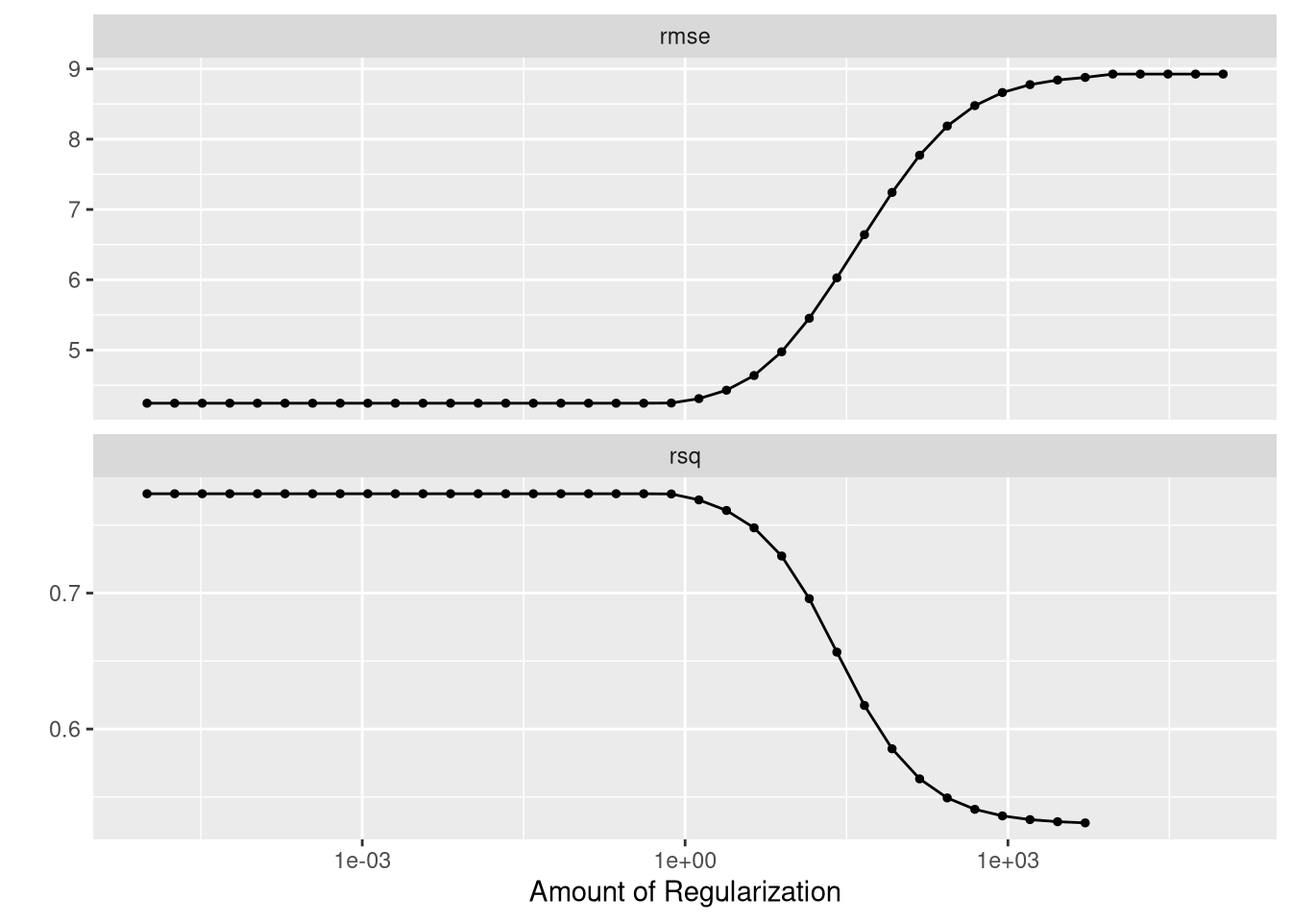
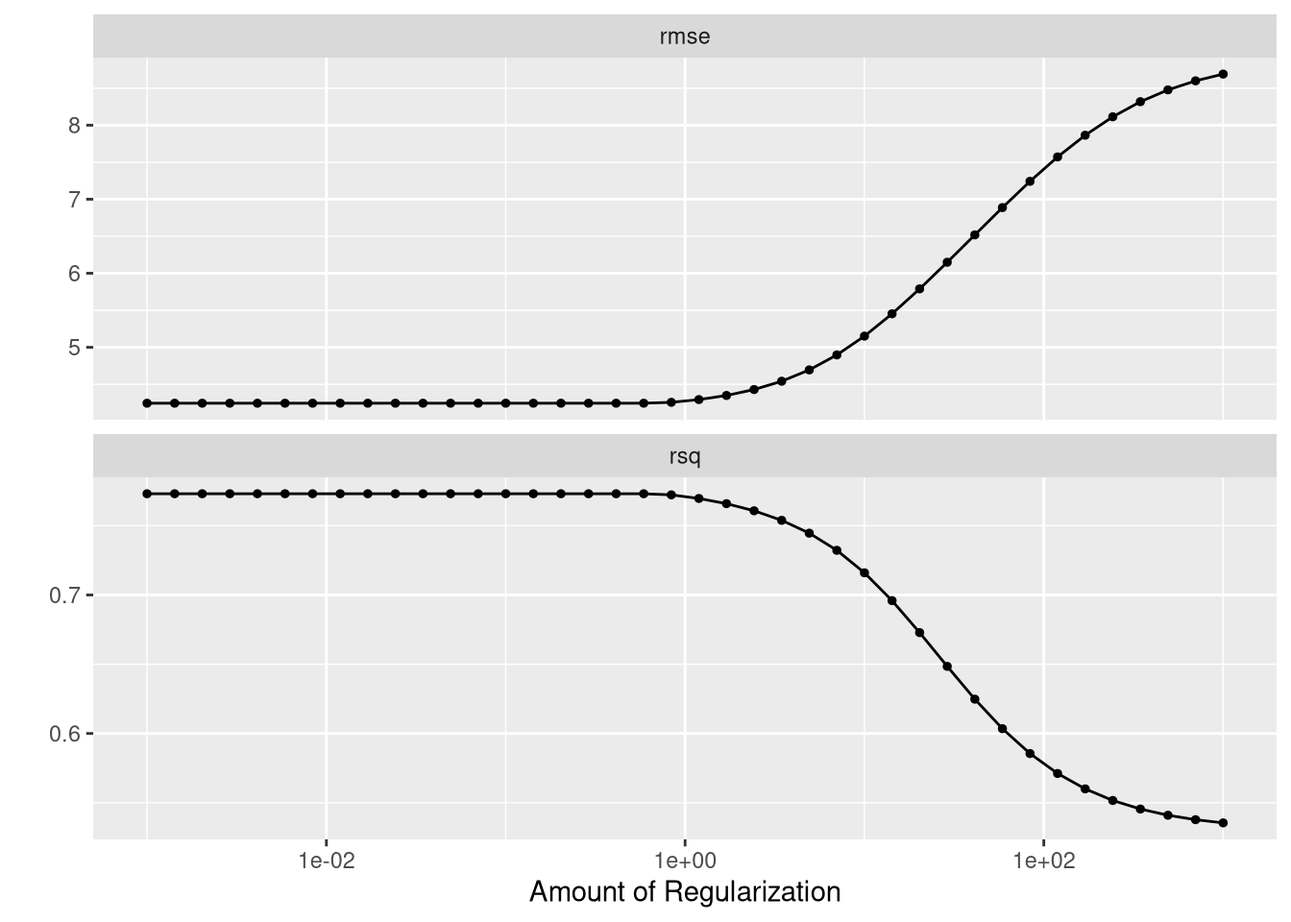
motweakers

diff --git a/QuartoStuff/tmNotes.html b/QuartoStuff/tmNotes.html
@@ -93,7 +93,7 @@ pre > code.sourceCode > span > a:first-child::before { text-decoration: underlin
     <div>
     <div class="quarto-title-meta-heading">Published</div>
     <div class="quarto-title-meta-contents">
-      <p class="date">Last modified on September 16, 2025 11:57:58 Eastern Daylight Time</p>
+      <p class="date">Last modified on September 17, 2025 10:16:53 Eastern Daylight Time</p>
     </div>
   </div>
   
@@ -306,20 +306,24 @@ Computational engine: lm </code></pre>
 <div class="cell" data-layout-align="center">
 <div class="sourceCode cell-code" id="cb20"><pre class="sourceCode r code-with-copy"><code class="sourceCode r"><span id="cb20-1"><a href="#cb20-1" aria-hidden="true" tabindex="-1"></a>boston_fit <span class="ot">&lt;-</span> <span class="fu">fit</span>(boston_wkfl, <span class="at">data =</span> boston_training)</span>
 <span id="cb20-2"><a href="#cb20-2" aria-hidden="true" tabindex="-1"></a><span class="fu">augment</span>(boston_fit, <span class="at">new_data =</span> boston_testing) <span class="sc">|&gt;</span> </span>
-<span id="cb20-3"><a href="#cb20-3" aria-hidden="true" tabindex="-1"></a>  <span class="fu">rmse</span>(<span class="at">truth =</span> medv, <span class="at">estimate =</span> .pred)</span></code><button title="Copy to Clipboard" class="code-copy-button"><i class="bi"></i></button></pre></div>
+<span id="cb20-3"><a href="#cb20-3" aria-hidden="true" tabindex="-1"></a>  <span class="fu">metrics</span>(<span class="at">truth =</span> medv, <span class="at">estimate =</span> .pred)</span></code><button title="Copy to Clipboard" class="code-copy-button"><i class="bi"></i></button></pre></div>
 <div class="cell-output cell-output-stdout">
-<pre><code># A tibble: 1 × 3
+<pre><code># A tibble: 3 × 3
   .metric .estimator .estimate
   &lt;chr&gt;   &lt;chr&gt;          &lt;dbl&gt;
-1 rmse    standard        4.58</code></pre>
+1 rmse    standard       4.58 
+2 rsq     standard       0.680
+3 mae     standard       3.40 </code></pre>
 </div>
 <div class="sourceCode cell-code" id="cb22"><pre class="sourceCode r code-with-copy"><code class="sourceCode r"><span id="cb22-1"><a href="#cb22-1" aria-hidden="true" tabindex="-1"></a><span class="fu">augment</span>(boston_fit, <span class="at">new_data =</span> boston_training) <span class="sc">|&gt;</span> </span>
-<span id="cb22-2"><a href="#cb22-2" aria-hidden="true" tabindex="-1"></a>  <span class="fu">rmse</span>(<span class="at">truth =</span> medv, <span class="at">estimate =</span> .pred)</span></code><button title="Copy to Clipboard" class="code-copy-button"><i class="bi"></i></button></pre></div>
+<span id="cb22-2"><a href="#cb22-2" aria-hidden="true" tabindex="-1"></a>  <span class="fu">metrics</span>(<span class="at">truth =</span> medv, <span class="at">estimate =</span> .pred)</span></code><button title="Copy to Clipboard" class="code-copy-button"><i class="bi"></i></button></pre></div>
 <div class="cell-output cell-output-stdout">
-<pre><code># A tibble: 1 × 3
+<pre><code># A tibble: 3 × 3
   .metric .estimator .estimate
   &lt;chr&gt;   &lt;chr&gt;          &lt;dbl&gt;
-1 rmse    standard        4.29</code></pre>
+1 rmse    standard       4.29 
+2 rsq     standard       0.793
+3 mae     standard       3.14 </code></pre>
 </div>
 </div>
 <p>Consider what happens if the seed is changed with the <code>initial_split()</code>.</p>
@@ -544,7 +548,7 @@ Computational engine: lm </code></pre>
 # ℹ 394 more rows</code></pre>
 </div>
 </div>
-<p>So how to we find the “best” <code>penalty</code>? We can use tuning to find the best hyperparameter. For now, we will only consider a grid search with evenly spaced parameter values to optimize our model.</p>
+<p>So how to we find the “best” <code>penalty</code> (<code>penalty</code> in tidymodels <span class="math inline">\(\equiv \lambda\)</span>, note: <span class="math inline">\(\lambda = \text{penalty} = 0 \text{and} \alpha = \text{mixture} = 0\)</span> is normal regression)? We can use tuning to find the best hyperparameter. For now, we will only consider a grid search with evenly spaced parameter values to optimize our model.</p>
 <div class="cell" data-layout-align="center">
 <div class="sourceCode cell-code" id="cb49"><pre class="sourceCode r code-with-copy"><code class="sourceCode r"><span id="cb49-1"><a href="#cb49-1" aria-hidden="true" tabindex="-1"></a>ridge_recipe <span class="ot">&lt;-</span></span>
 <span id="cb49-2"><a href="#cb49-2" aria-hidden="true" tabindex="-1"></a>  <span class="fu">recipe</span>(<span class="at">formula =</span> medv <span class="sc">~</span> ., <span class="at">data =</span> boston_training) <span class="sc">|&gt;</span> </span>
@@ -560,24 +564,24 @@ Computational engine: lm </code></pre>
 <span id="cb49-12"><a href="#cb49-12" aria-hidden="true" tabindex="-1"></a>  <span class="fu">add_recipe</span>(ridge_recipe) <span class="sc">|&gt;</span> </span>
 <span id="cb49-13"><a href="#cb49-13" aria-hidden="true" tabindex="-1"></a>  <span class="fu">add_model</span>(ridge_spec)</span></code><button title="Copy to Clipboard" class="code-copy-button"><i class="bi"></i></button></pre></div>
 </div>
-<p>We need values of the <code>penalty</code>. Looking at the graph from <code>autoplot()</code>, we select values from 1 to 1000 using <code>grid_regular()</code> which will create a grid of evenly spaced values.</p>
+<p>We need values of the <code>penalty</code>. Looking at the graph from <code>autoplot()</code>, we select values from 0.001 to 1000 using <code>grid_regular()</code> which will create a grid of evenly spaced values.</p>
 <div class="cell" data-layout-align="center">
-<div class="sourceCode cell-code" id="cb50"><pre class="sourceCode r code-with-copy"><code class="sourceCode r"><span id="cb50-1"><a href="#cb50-1" aria-hidden="true" tabindex="-1"></a>penalty_grid <span class="ot">&lt;-</span> <span class="fu">grid_regular</span>(<span class="fu">penalty</span>(<span class="at">range =</span> <span class="fu">c</span>(<span class="sc">-</span><span class="dv">5</span>, <span class="dv">5</span>)), <span class="at">levels =</span> <span class="dv">40</span>)</span>
+<div class="sourceCode cell-code" id="cb50"><pre class="sourceCode r code-with-copy"><code class="sourceCode r"><span id="cb50-1"><a href="#cb50-1" aria-hidden="true" tabindex="-1"></a>penalty_grid <span class="ot">&lt;-</span> <span class="fu">grid_regular</span>(<span class="fu">penalty</span>(<span class="at">range =</span> <span class="fu">c</span>(<span class="sc">-</span><span class="dv">3</span>, <span class="dv">3</span>)), <span class="at">levels =</span> <span class="dv">40</span>)</span>
 <span id="cb50-2"><a href="#cb50-2" aria-hidden="true" tabindex="-1"></a>penalty_grid</span></code><button title="Copy to Clipboard" class="code-copy-button"><i class="bi"></i></button></pre></div>
 <div class="cell-output cell-output-stdout">
 <pre><code># A tibble: 40 × 1
-     penalty
-       &lt;dbl&gt;
- 1 0.00001  
- 2 0.0000180
- 3 0.0000326
- 4 0.0000588
- 5 0.000106 
- 6 0.000191 
- 7 0.000346 
- 8 0.000624 
- 9 0.00113  
-10 0.00203  
+   penalty
+     &lt;dbl&gt;
+ 1 0.001  
+ 2 0.00143
+ 3 0.00203
+ 4 0.00289
+ 5 0.00412
+ 6 0.00588
+ 7 0.00838
+ 8 0.0119 
+ 9 0.0170 
+10 0.0242 
 # ℹ 30 more rows</code></pre>
 </div>
 </div>
@@ -594,21 +598,20 @@ Computational engine: lm </code></pre>
 # A tibble: 30 × 5
    splits           id      id2    .metrics          .notes          
    &lt;list&gt;           &lt;chr&gt;   &lt;chr&gt;  &lt;list&gt;            &lt;list&gt;          
- 1 &lt;split [363/41]&gt; Repeat1 Fold01 &lt;tibble [80 × 5]&gt; &lt;tibble [8 × 4]&gt;
- 2 &lt;split [363/41]&gt; Repeat1 Fold02 &lt;tibble [80 × 5]&gt; &lt;tibble [8 × 4]&gt;
- 3 &lt;split [363/41]&gt; Repeat1 Fold03 &lt;tibble [80 × 5]&gt; &lt;tibble [8 × 4]&gt;
- 4 &lt;split [363/41]&gt; Repeat1 Fold04 &lt;tibble [80 × 5]&gt; &lt;tibble [8 × 4]&gt;
- 5 &lt;split [364/40]&gt; Repeat1 Fold05 &lt;tibble [80 × 5]&gt; &lt;tibble [8 × 4]&gt;
- 6 &lt;split [364/40]&gt; Repeat1 Fold06 &lt;tibble [80 × 5]&gt; &lt;tibble [8 × 4]&gt;
- 7 &lt;split [364/40]&gt; Repeat1 Fold07 &lt;tibble [80 × 5]&gt; &lt;tibble [8 × 4]&gt;
- 8 &lt;split [364/40]&gt; Repeat1 Fold08 &lt;tibble [80 × 5]&gt; &lt;tibble [8 × 4]&gt;
- 9 &lt;split [364/40]&gt; Repeat1 Fold09 &lt;tibble [80 × 5]&gt; &lt;tibble [8 × 4]&gt;
-10 &lt;split [364/40]&gt; Repeat1 Fold10 &lt;tibble [80 × 5]&gt; &lt;tibble [8 × 4]&gt;
+ 1 &lt;split [363/41]&gt; Repeat1 Fold01 &lt;tibble [80 × 5]&gt; &lt;tibble [3 × 4]&gt;
+ 2 &lt;split [363/41]&gt; Repeat1 Fold02 &lt;tibble [80 × 5]&gt; &lt;tibble [3 × 4]&gt;
+ 3 &lt;split [363/41]&gt; Repeat1 Fold03 &lt;tibble [80 × 5]&gt; &lt;tibble [3 × 4]&gt;
+ 4 &lt;split [363/41]&gt; Repeat1 Fold04 &lt;tibble [80 × 5]&gt; &lt;tibble [3 × 4]&gt;
+ 5 &lt;split [364/40]&gt; Repeat1 Fold05 &lt;tibble [80 × 5]&gt; &lt;tibble [3 × 4]&gt;
+ 6 &lt;split [364/40]&gt; Repeat1 Fold06 &lt;tibble [80 × 5]&gt; &lt;tibble [3 × 4]&gt;
+ 7 &lt;split [364/40]&gt; Repeat1 Fold07 &lt;tibble [80 × 5]&gt; &lt;tibble [3 × 4]&gt;
+ 8 &lt;split [364/40]&gt; Repeat1 Fold08 &lt;tibble [80 × 5]&gt; &lt;tibble [3 × 4]&gt;
+ 9 &lt;split [364/40]&gt; Repeat1 Fold09 &lt;tibble [80 × 5]&gt; &lt;tibble [3 × 4]&gt;
+10 &lt;split [364/40]&gt; Repeat1 Fold10 &lt;tibble [80 × 5]&gt; &lt;tibble [3 × 4]&gt;
 # ℹ 20 more rows
 
 There were issues with some computations:
 
-  - Warning(s) x150: A correlation computation is required, but `estimate` is constant...
   - Warning(s) x30: Fewer than `num_unique` values in selected variable.
   - Warning(s) x30: No Box-Cox transformation could be estimated for: `zn` and `chas`.
   - Warning(s) x30: Non-positive values in selected variable.
@@ -630,18 +633,18 @@ Run `show_notes(.Last.tune.result)` for more information.</code></pre>
 <div class="sourceCode cell-code" id="cb55"><pre class="sourceCode r code-with-copy"><code class="sourceCode r"><span id="cb55-1"><a href="#cb55-1" aria-hidden="true" tabindex="-1"></a><span class="fu">collect_metrics</span>(tune_result)</span></code><button title="Copy to Clipboard" class="code-copy-button"><i class="bi"></i></button></pre></div>
 <div class="cell-output cell-output-stdout">
 <pre><code># A tibble: 80 × 7
-     penalty .metric .estimator  mean     n std_err .config         
-       &lt;dbl&gt; &lt;chr&gt;   &lt;chr&gt;      &lt;dbl&gt; &lt;int&gt;   &lt;dbl&gt; &lt;chr&gt;           
- 1 0.00001   rmse    standard   4.24     30  0.155  pre0_mod01_post0
- 2 0.00001   rsq     standard   0.773    30  0.0143 pre0_mod01_post0
- 3 0.0000180 rmse    standard   4.24     30  0.155  pre0_mod02_post0
- 4 0.0000180 rsq     standard   0.773    30  0.0143 pre0_mod02_post0
- 5 0.0000326 rmse    standard   4.24     30  0.155  pre0_mod03_post0
- 6 0.0000326 rsq     standard   0.773    30  0.0143 pre0_mod03_post0
- 7 0.0000588 rmse    standard   4.24     30  0.155  pre0_mod04_post0
- 8 0.0000588 rsq     standard   0.773    30  0.0143 pre0_mod04_post0
- 9 0.000106  rmse    standard   4.24     30  0.155  pre0_mod05_post0
-10 0.000106  rsq     standard   0.773    30  0.0143 pre0_mod05_post0
+   penalty .metric .estimator  mean     n std_err .config         
+     &lt;dbl&gt; &lt;chr&gt;   &lt;chr&gt;      &lt;dbl&gt; &lt;int&gt;   &lt;dbl&gt; &lt;chr&gt;           
+ 1 0.001   rmse    standard   4.24     30  0.155  pre0_mod01_post0
+ 2 0.001   rsq     standard   0.773    30  0.0143 pre0_mod01_post0
+ 3 0.00143 rmse    standard   4.24     30  0.155  pre0_mod02_post0
+ 4 0.00143 rsq     standard   0.773    30  0.0143 pre0_mod02_post0
+ 5 0.00203 rmse    standard   4.24     30  0.155  pre0_mod03_post0
+ 6 0.00203 rsq     standard   0.773    30  0.0143 pre0_mod03_post0
+ 7 0.00289 rmse    standard   4.24     30  0.155  pre0_mod04_post0
+ 8 0.00289 rsq     standard   0.773    30  0.0143 pre0_mod04_post0
+ 9 0.00412 rmse    standard   4.24     30  0.155  pre0_mod05_post0
+10 0.00412 rsq     standard   0.773    30  0.0143 pre0_mod05_post0
 # ℹ 70 more rows</code></pre>
 </div>
 </div>
@@ -652,7 +655,7 @@ Run `show_notes(.Last.tune.result)` for more information.</code></pre>
 <pre><code># A tibble: 1 × 2
   penalty .config         
     &lt;dbl&gt; &lt;chr&gt;           
-1 0.00001 pre0_mod01_post0</code></pre>
+1   0.001 pre0_mod01_post0</code></pre>
 </div>
 </div>
 <div class="cell" data-layout-align="center">
@@ -672,7 +675,7 @@ Run `show_notes(.Last.tune.result)` for more information.</code></pre>
 </section>
 <section id="the-lasso" class="level2">
 <h2 class="anchored" data-anchor-id="the-lasso">The LASSO</h2>
-<p>To specify the LASSO use <code>mixture = 1</code>.</p>
+<p>To specify the LASSO use <span class="math inline">\(\alpha = \text{mixture} = 1\)</span>. Recall that <span class="math inline">\(\text{penalty} = \lambda\)</span>.</p>
 <div class="cell" data-layout-align="center">
 <div class="sourceCode cell-code" id="cb61"><pre class="sourceCode r code-with-copy"><code class="sourceCode r"><span id="cb61-1"><a href="#cb61-1" aria-hidden="true" tabindex="-1"></a>lasso_recipe <span class="ot">&lt;-</span></span>
 <span id="cb61-2"><a href="#cb61-2" aria-hidden="true" tabindex="-1"></a>  <span class="fu">recipe</span>(<span class="at">formula =</span> medv <span class="sc">~</span> ., <span class="at">data =</span> boston_training) <span class="sc">|&gt;</span> </span>
@@ -710,10 +713,17 @@ Run `show_notes(.Last.tune.result)` for more information.</code></pre>
 </div>
 <div class="cell" data-layout-align="center">
 <div class="sourceCode cell-code" id="cb64"><pre class="sourceCode r code-with-copy"><code class="sourceCode r"><span id="cb64-1"><a href="#cb64-1" aria-hidden="true" tabindex="-1"></a>best_penalty <span class="ot">&lt;-</span> <span class="fu">select_best</span>(tune_res, <span class="at">metric =</span> <span class="st">"rmse"</span>)</span>
-<span id="cb64-2"><a href="#cb64-2" aria-hidden="true" tabindex="-1"></a>lasso_final <span class="ot">&lt;-</span> <span class="fu">finalize_workflow</span>(lasso_wf, best_penalty)</span>
-<span id="cb64-3"><a href="#cb64-3" aria-hidden="true" tabindex="-1"></a>lasso_final_fit <span class="ot">&lt;-</span> <span class="fu">fit</span>(lasso_final, <span class="at">data =</span> boston_training)</span>
-<span id="cb64-4"><a href="#cb64-4" aria-hidden="true" tabindex="-1"></a><span class="fu">augment</span>(lasso_final_fit, <span class="at">new_data =</span> boston_testing) <span class="sc">|&gt;</span> </span>
-<span id="cb64-5"><a href="#cb64-5" aria-hidden="true" tabindex="-1"></a>  <span class="fu">metrics</span>(<span class="at">truth =</span> medv, <span class="at">estimate =</span> .pred)</span></code><button title="Copy to Clipboard" class="code-copy-button"><i class="bi"></i></button></pre></div>
+<span id="cb64-2"><a href="#cb64-2" aria-hidden="true" tabindex="-1"></a>best_penalty</span></code><button title="Copy to Clipboard" class="code-copy-button"><i class="bi"></i></button></pre></div>
+<div class="cell-output cell-output-stdout">
+<pre><code># A tibble: 1 × 2
+  penalty .config         
+    &lt;dbl&gt; &lt;chr&gt;           
+1    0.01 pre0_mod01_post0</code></pre>
+</div>
+<div class="sourceCode cell-code" id="cb66"><pre class="sourceCode r code-with-copy"><code class="sourceCode r"><span id="cb66-1"><a href="#cb66-1" aria-hidden="true" tabindex="-1"></a>lasso_final <span class="ot">&lt;-</span> <span class="fu">finalize_workflow</span>(lasso_wf, best_penalty)</span>
+<span id="cb66-2"><a href="#cb66-2" aria-hidden="true" tabindex="-1"></a>lasso_final_fit <span class="ot">&lt;-</span> <span class="fu">fit</span>(lasso_final, <span class="at">data =</span> boston_training)</span>
+<span id="cb66-3"><a href="#cb66-3" aria-hidden="true" tabindex="-1"></a><span class="fu">augment</span>(lasso_final_fit, <span class="at">new_data =</span> boston_testing) <span class="sc">|&gt;</span> </span>
+<span id="cb66-4"><a href="#cb66-4" aria-hidden="true" tabindex="-1"></a>  <span class="fu">metrics</span>(<span class="at">truth =</span> medv, <span class="at">estimate =</span> .pred)</span></code><button title="Copy to Clipboard" class="code-copy-button"><i class="bi"></i></button></pre></div>
 <div class="cell-output cell-output-stdout">
 <pre><code># A tibble: 3 × 3
   .metric .estimator .estimate
@@ -727,41 +737,48 @@ Run `show_notes(.Last.tune.result)` for more information.</code></pre>
 <section id="elastic-net" class="level2">
 <h2 class="anchored" data-anchor-id="elastic-net">Elastic net</h2>
 <div class="cell" data-layout-align="center">
-<div class="sourceCode cell-code" id="cb66"><pre class="sourceCode r code-with-copy"><code class="sourceCode r"><span id="cb66-1"><a href="#cb66-1" aria-hidden="true" tabindex="-1"></a>enet_recipe <span class="ot">&lt;-</span></span>
-<span id="cb66-2"><a href="#cb66-2" aria-hidden="true" tabindex="-1"></a>  <span class="fu">recipe</span>(<span class="at">formula =</span> medv <span class="sc">~</span> ., <span class="at">data =</span> boston_training) <span class="sc">|&gt;</span> </span>
-<span id="cb66-3"><a href="#cb66-3" aria-hidden="true" tabindex="-1"></a>  <span class="fu">step_BoxCox</span>(<span class="fu">all_numeric_predictors</span>()) <span class="sc">|&gt;</span> </span>
-<span id="cb66-4"><a href="#cb66-4" aria-hidden="true" tabindex="-1"></a>  <span class="fu">step_normalize</span>(<span class="fu">all_numeric_predictors</span>())</span>
-<span id="cb66-5"><a href="#cb66-5" aria-hidden="true" tabindex="-1"></a></span>
-<span id="cb66-6"><a href="#cb66-6" aria-hidden="true" tabindex="-1"></a>enet_spec <span class="ot">&lt;-</span> </span>
-<span id="cb66-7"><a href="#cb66-7" aria-hidden="true" tabindex="-1"></a>  <span class="fu">linear_reg</span>(<span class="at">penalty =</span> <span class="fu">tune</span>()) <span class="sc">|&gt;</span> </span>
-<span id="cb66-8"><a href="#cb66-8" aria-hidden="true" tabindex="-1"></a>  <span class="fu">set_mode</span>(<span class="st">"regression"</span>) <span class="sc">|&gt;</span> </span>
-<span id="cb66-9"><a href="#cb66-9" aria-hidden="true" tabindex="-1"></a>  <span class="fu">set_engine</span>(<span class="st">"glmnet"</span>)</span>
-<span id="cb66-10"><a href="#cb66-10" aria-hidden="true" tabindex="-1"></a></span>
-<span id="cb66-11"><a href="#cb66-11" aria-hidden="true" tabindex="-1"></a>enet_wf <span class="ot">&lt;-</span> <span class="fu">workflow</span>() <span class="sc">|&gt;</span> </span>
-<span id="cb66-12"><a href="#cb66-12" aria-hidden="true" tabindex="-1"></a>  <span class="fu">add_recipe</span>(enet_recipe) <span class="sc">|&gt;</span> </span>
-<span id="cb66-13"><a href="#cb66-13" aria-hidden="true" tabindex="-1"></a>  <span class="fu">add_model</span>(enet_spec)</span>
-<span id="cb66-14"><a href="#cb66-14" aria-hidden="true" tabindex="-1"></a></span>
-<span id="cb66-15"><a href="#cb66-15" aria-hidden="true" tabindex="-1"></a>penalty_grid <span class="ot">&lt;-</span> <span class="fu">grid_regular</span>(<span class="fu">penalty</span>(<span class="at">range =</span> <span class="fu">c</span>(<span class="sc">-</span><span class="dv">2</span>, <span class="dv">2</span>)), <span class="at">levels =</span> <span class="dv">40</span>)</span>
-<span id="cb66-16"><a href="#cb66-16" aria-hidden="true" tabindex="-1"></a></span>
-<span id="cb66-17"><a href="#cb66-17" aria-hidden="true" tabindex="-1"></a>tune_res <span class="ot">&lt;-</span> <span class="fu">tune_grid</span>(</span>
-<span id="cb66-18"><a href="#cb66-18" aria-hidden="true" tabindex="-1"></a>  enet_wf,</span>
-<span id="cb66-19"><a href="#cb66-19" aria-hidden="true" tabindex="-1"></a>  <span class="at">resamples =</span> boston_folds, </span>
-<span id="cb66-20"><a href="#cb66-20" aria-hidden="true" tabindex="-1"></a>  <span class="at">grid =</span> penalty_grid</span>
-<span id="cb66-21"><a href="#cb66-21" aria-hidden="true" tabindex="-1"></a>)</span></code><button title="Copy to Clipboard" class="code-copy-button"><i class="bi"></i></button></pre></div>
+<div class="sourceCode cell-code" id="cb68"><pre class="sourceCode r code-with-copy"><code class="sourceCode r"><span id="cb68-1"><a href="#cb68-1" aria-hidden="true" tabindex="-1"></a>enet_recipe <span class="ot">&lt;-</span></span>
+<span id="cb68-2"><a href="#cb68-2" aria-hidden="true" tabindex="-1"></a>  <span class="fu">recipe</span>(<span class="at">formula =</span> medv <span class="sc">~</span> ., <span class="at">data =</span> boston_training) <span class="sc">|&gt;</span> </span>
+<span id="cb68-3"><a href="#cb68-3" aria-hidden="true" tabindex="-1"></a>  <span class="fu">step_BoxCox</span>(<span class="fu">all_numeric_predictors</span>()) <span class="sc">|&gt;</span> </span>
+<span id="cb68-4"><a href="#cb68-4" aria-hidden="true" tabindex="-1"></a>  <span class="fu">step_normalize</span>(<span class="fu">all_numeric_predictors</span>())</span>
+<span id="cb68-5"><a href="#cb68-5" aria-hidden="true" tabindex="-1"></a></span>
+<span id="cb68-6"><a href="#cb68-6" aria-hidden="true" tabindex="-1"></a>enet_spec <span class="ot">&lt;-</span> </span>
+<span id="cb68-7"><a href="#cb68-7" aria-hidden="true" tabindex="-1"></a>  <span class="fu">linear_reg</span>(<span class="at">penalty =</span> <span class="fu">tune</span>(), <span class="at">mixture =</span> <span class="fu">tune</span>()) <span class="sc">|&gt;</span> </span>
+<span id="cb68-8"><a href="#cb68-8" aria-hidden="true" tabindex="-1"></a>  <span class="fu">set_mode</span>(<span class="st">"regression"</span>) <span class="sc">|&gt;</span> </span>
+<span id="cb68-9"><a href="#cb68-9" aria-hidden="true" tabindex="-1"></a>  <span class="fu">set_engine</span>(<span class="st">"glmnet"</span>)</span>
+<span id="cb68-10"><a href="#cb68-10" aria-hidden="true" tabindex="-1"></a></span>
+<span id="cb68-11"><a href="#cb68-11" aria-hidden="true" tabindex="-1"></a>enet_wf <span class="ot">&lt;-</span> <span class="fu">workflow</span>() <span class="sc">|&gt;</span> </span>
+<span id="cb68-12"><a href="#cb68-12" aria-hidden="true" tabindex="-1"></a>  <span class="fu">add_recipe</span>(enet_recipe) <span class="sc">|&gt;</span> </span>
+<span id="cb68-13"><a href="#cb68-13" aria-hidden="true" tabindex="-1"></a>  <span class="fu">add_model</span>(enet_spec)</span>
+<span id="cb68-14"><a href="#cb68-14" aria-hidden="true" tabindex="-1"></a></span>
+<span id="cb68-15"><a href="#cb68-15" aria-hidden="true" tabindex="-1"></a>penalty_grid <span class="ot">&lt;-</span> <span class="fu">grid_regular</span>(<span class="fu">penalty</span>(<span class="at">range =</span> <span class="fu">c</span>(<span class="sc">-</span><span class="dv">2</span>, <span class="dv">2</span>)), <span class="fu">mixture</span>(<span class="at">range =</span> <span class="fu">c</span>(<span class="dv">0</span>, <span class="dv">1</span>)), <span class="at">levels =</span> <span class="dv">10</span>)</span>
+<span id="cb68-16"><a href="#cb68-16" aria-hidden="true" tabindex="-1"></a></span>
+<span id="cb68-17"><a href="#cb68-17" aria-hidden="true" tabindex="-1"></a>tune_res <span class="ot">&lt;-</span> <span class="fu">tune_grid</span>(</span>
+<span id="cb68-18"><a href="#cb68-18" aria-hidden="true" tabindex="-1"></a>  enet_wf,</span>
+<span id="cb68-19"><a href="#cb68-19" aria-hidden="true" tabindex="-1"></a>  <span class="at">resamples =</span> boston_folds, </span>
+<span id="cb68-20"><a href="#cb68-20" aria-hidden="true" tabindex="-1"></a>  <span class="at">grid =</span> penalty_grid</span>
+<span id="cb68-21"><a href="#cb68-21" aria-hidden="true" tabindex="-1"></a>)</span></code><button title="Copy to Clipboard" class="code-copy-button"><i class="bi"></i></button></pre></div>
 </div>
 <div class="cell" data-layout-align="center">
-<div class="sourceCode cell-code" id="cb67"><pre class="sourceCode r code-with-copy"><code class="sourceCode r"><span id="cb67-1"><a href="#cb67-1" aria-hidden="true" tabindex="-1"></a>best_penalty <span class="ot">&lt;-</span> <span class="fu">select_best</span>(tune_res, <span class="at">metric =</span> <span class="st">"rmse"</span>)</span>
-<span id="cb67-2"><a href="#cb67-2" aria-hidden="true" tabindex="-1"></a>enet_final <span class="ot">&lt;-</span> <span class="fu">finalize_workflow</span>(enet_wf, best_penalty)</span>
-<span id="cb67-3"><a href="#cb67-3" aria-hidden="true" tabindex="-1"></a>enet_final_fit <span class="ot">&lt;-</span> <span class="fu">fit</span>(enet_final, <span class="at">data =</span> boston_training)</span>
-<span id="cb67-4"><a href="#cb67-4" aria-hidden="true" tabindex="-1"></a><span class="fu">augment</span>(enet_final_fit, <span class="at">new_data =</span> boston_testing) <span class="sc">|&gt;</span> </span>
-<span id="cb67-5"><a href="#cb67-5" aria-hidden="true" tabindex="-1"></a>  <span class="fu">metrics</span>(<span class="at">truth =</span> medv, <span class="at">estimate =</span> .pred)</span></code><button title="Copy to Clipboard" class="code-copy-button"><i class="bi"></i></button></pre></div>
+<div class="sourceCode cell-code" id="cb69"><pre class="sourceCode r code-with-copy"><code class="sourceCode r"><span id="cb69-1"><a href="#cb69-1" aria-hidden="true" tabindex="-1"></a>best_penalty <span class="ot">&lt;-</span> <span class="fu">select_best</span>(tune_res, <span class="at">metric =</span> <span class="st">"rmse"</span>)</span>
+<span id="cb69-2"><a href="#cb69-2" aria-hidden="true" tabindex="-1"></a>best_penalty</span></code><button title="Copy to Clipboard" class="code-copy-button"><i class="bi"></i></button></pre></div>
+<div class="cell-output cell-output-stdout">
+<pre><code># A tibble: 1 × 3
+  penalty mixture .config          
+    &lt;dbl&gt;   &lt;dbl&gt; &lt;chr&gt;            
+1  0.0774   0.111 pre0_mod022_post0</code></pre>
+</div>
+<div class="sourceCode cell-code" id="cb71"><pre class="sourceCode r code-with-copy"><code class="sourceCode r"><span id="cb71-1"><a href="#cb71-1" aria-hidden="true" tabindex="-1"></a>enet_final <span class="ot">&lt;-</span> <span class="fu">finalize_workflow</span>(enet_wf, best_penalty)</span>
+<span id="cb71-2"><a href="#cb71-2" aria-hidden="true" tabindex="-1"></a>enet_final_fit <span class="ot">&lt;-</span> <span class="fu">fit</span>(enet_final, <span class="at">data =</span> boston_training)</span>
+<span id="cb71-3"><a href="#cb71-3" aria-hidden="true" tabindex="-1"></a><span class="fu">augment</span>(enet_final_fit, <span class="at">new_data =</span> boston_testing) <span class="sc">|&gt;</span> </span>
+<span id="cb71-4"><a href="#cb71-4" aria-hidden="true" tabindex="-1"></a>  <span class="fu">metrics</span>(<span class="at">truth =</span> medv, <span class="at">estimate =</span> .pred)</span></code><button title="Copy to Clipboard" class="code-copy-button"><i class="bi"></i></button></pre></div>
 <div class="cell-output cell-output-stdout">
 <pre><code># A tibble: 3 × 3
   .metric .estimator .estimate
   &lt;chr&gt;   &lt;chr&gt;          &lt;dbl&gt;
-1 rmse    standard       5.71 
-2 rsq     standard       0.671
-3 mae     standard       3.90 </code></pre>
+1 rmse    standard       5.74 
+2 rsq     standard       0.667
+3 mae     standard       3.89 </code></pre>
 </div>
 </div>
 </section>
